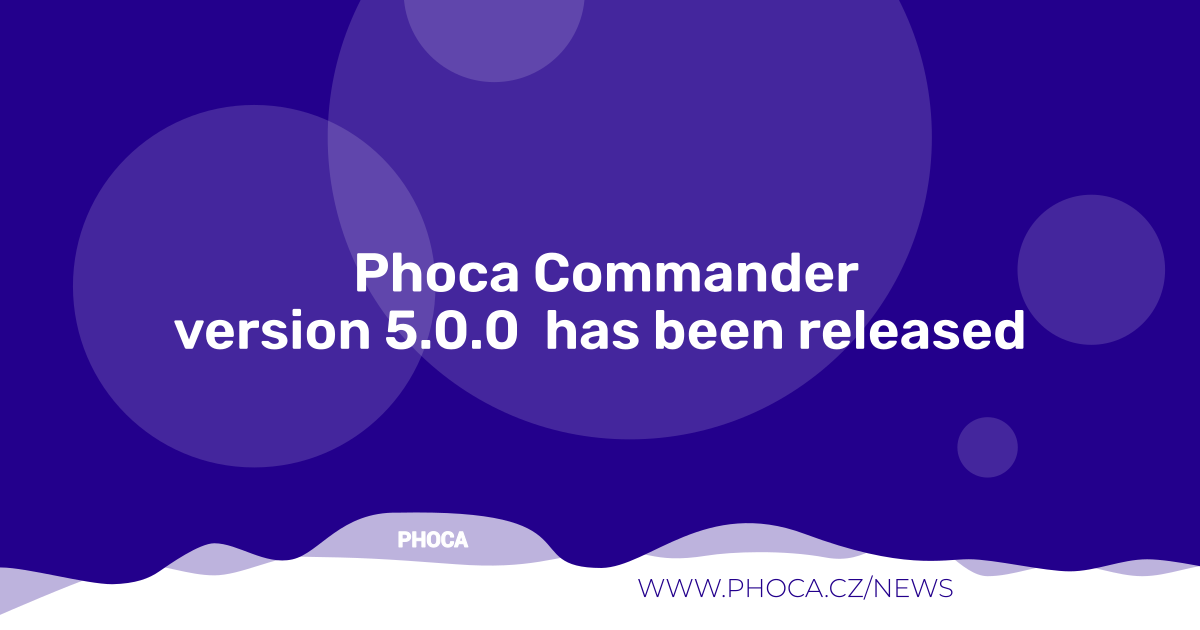
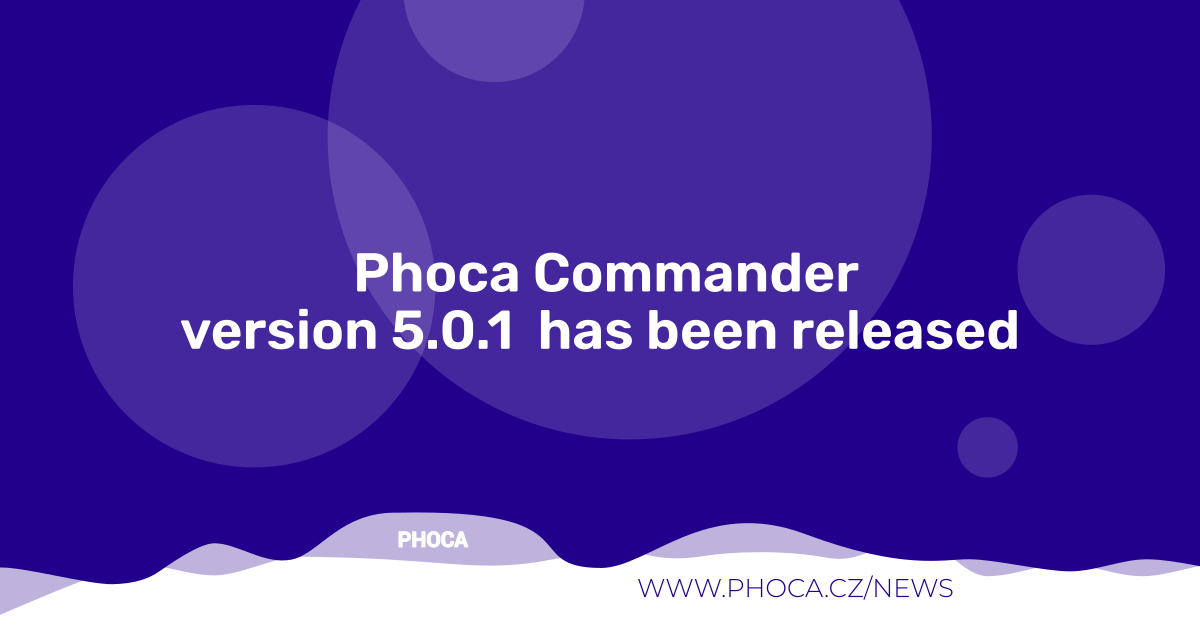
5.0.1

Changed region(s): [[0.1233, 0.4825, 0.8633, 0.573]]

diff --git a/media/js/administrator/phocacommander.js b/media/js/administrator/phocacommander.js
@@ -752,13 +752,16 @@ function setAttribVal(phO, phG, phT) {
 	jQuery('#phAttribVal').val( phAttribVal );
 }
 
+
+
+
 /* Document Ready */
 jQuery(document).ready(function() {
 
     var phLang  = Joomla.getOptions('phLangCM');
     var phVars  = Joomla.getOptions('phVarsCM');
-
-	jQuery('#selectAllA').on( "click", function() {
+	
+	jQuery(document).on( "click", '#selectAllA', function() {
 		phActivePanel = 'B';
 		var checkedStatusA = this.checked;
 		jQuery('#ph-table-A tr').find('td:first :checkbox').each(function () {
@@ -768,7 +771,7 @@ jQuery(document).ready(function() {
 		 });
 	});
 
-	jQuery('#selectAllB').on( "click", function() {
+	jQuery(document).on( "click", '#selectAllB', function() {
 		phActivePanel = 'B';
 		var checkedStatusB = this.checked;
 		jQuery('#ph-table-B tr').find('td:first :checkbox').each(function () {
@@ -796,10 +799,10 @@ jQuery(document).ready(function() {
 	/* Start or change the form*/
 
 	/* Change */
-	jQuery('#ph-a').on( "click", function() {
+	jQuery(document).on( "click", '#ph-a', function() {
 		phActivePanel = 'A';
 	});
-	jQuery('#ph-b').on( "click", function() {
+	jQuery(document).on( "click", '#ph-b', function() {
 		phActivePanel = 'B';
 	});
 

diff --git a/media/css/administrator/phocacommander.css b/media/css/administrator/phocacommander.css
@@ -384,3 +384,7 @@ label.ph-input-prompt input.ph-input-checkbox-prompt {
 .progress.plupload_file_statusbar .bar {
 	background: green;
 }
+
+.ui-widget-content a {
+     color: #000;
+}

diff --git a/admin/helpers/fileuploadmultiple.php b/admin/helpers/fileuploadmultiple.php
@@ -54,7 +54,8 @@ class PhocaCommanderFileUploadMultiple
 		//$document->addScript(JUri::root(true).'/media/com_phocacommander/js/administrator/plupload/moxie.js');
 		//$document->addScript(JUri::root(true).'/media/com_phocacommander/js/administrator/plupload/jquery.ui.plupload/jquery.ui.plupload.js');
 		//HTMLHelper::stylesheet( 'media/com_phocacommander/js/administrator/plupload/jquery.plupload.queue/css/jquery.plupload.queue.css' );
-		$wa->registerAndUseStyle('com_phocacommander.plupload', 'media/com_phocacommander/js/administrator/plupload/jquery.plupload.queue/css/jquery.plupload.queue.css', array('version' => 'auto'));
+		// Moved to renderadmin because of ordering
+		//$wa->registerAndUseStyle('com_phocacommander.plupload', 'media/com_phocacommander/js/administrator/plupload/jquery.plupload.queue/css/jquery.plupload.queue.css', array('version' => 'auto'));
 	}
 
 	public static function getMultipleUploadSizeFormat($size) {

diff --git a/admin/helpers/renderadminview.php b/admin/helpers/renderadminview.php
@@ -85,6 +85,9 @@ class PhocaCommanderRenderAdminView
 		HTMLHelper::_('script', 'media/com_phocacommander/js/administrator/prettyphoto/js/jquery.prettyPhoto.js', array('version' => 'auto'));
 		HTMLHelper::_('script', 'media/com_phocacommander/js/administrator/jquery.pause.min.js', array('version' => 'auto'));
 
+
+		$wa->registerAndUseStyle('com_phocacommander.plupload', 'media/com_phocacommander/js/administrator/plupload/jquery.plupload.queue/css/jquery.plupload.queue.css', array('version' => 'auto'));
+
 		switch($this->view) {
 			case 'phocacommanderinfo':
 

diff --git a/admin/views/phocacommanderfilesa/view.json.php b/admin/views/phocacommanderfilesa/view.json.php
@@ -242,9 +242,6 @@ foreach ($items as $k => $v) {
 
 // Folders
 $o = '<div class="ph-box-s">';
-
-
-
 $o .= '<div class="ph-status '.$activePanelClass.'" id="phStatus'.$this->t['panel'].'"></div>';
 $o .= '<table class="ph-table">';
 $o .= '<tr><th class="ph-check"><input type="checkbox" name="selectAll" id="selectAll'.$this->t['panel'].'" /></th>';

diff --git a/README.MD b/README.MD
@@ -62,7 +62,7 @@ Phoca Commander is Joomla! CMS component - it is dual panel file manager (like T
 
 ## Version (Joomla! 5.x)
 
-5.0.0
+5.0.1
 
 
 
